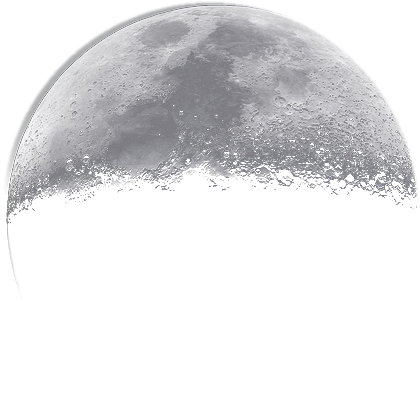
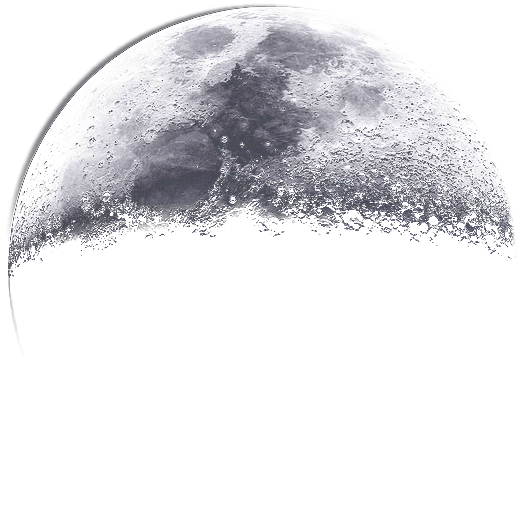
Stereo hummingbird wing hum; higher-contrast, better-blended moon
Claude-Session: https://claude.ai/code/session_01LigpvDkSJR84oMvpW1yewU

Changed region(s): [[0.0, 0.0, 0.9905, 0.5262]]

diff --git a/scenery.js b/scenery.js
@@ -91,6 +91,19 @@ var natureSfx=(function(){
     og.gain.setValueAtTime(0,at); og.gain.linearRampToValueAtTime(v*.45,at+.015); og.gain.linearRampToValueAtTime(0,at+.1); o.connect(og); og.connect(out); o.start(at); o.stop(at+.12); }
   function scratch(pan,v){ if(!ctx||!live) return; const at=ctx.currentTime+.01, out=voice(master,pan*.8), bp=ctx.createBiquadFilter(); bp.type="bandpass"; bp.frequency.value=R(1400,2200); bp.Q.value=1; bp.connect(out);
     const s=ctx.createBufferSource(); s.buffer=noiseBuf; const g=ctx.createGain(); g.gain.setValueAtTime(0,at); g.gain.linearRampToValueAtTime(v,at+.015); g.gain.linearRampToValueAtTime(0,at+.07); s.connect(g); g.connect(bp); s.start(at,R(0,2.5),.09); }
+  /* a hummingbird's wings: a soft, fast-throbbing hum, panned and swelling with how close it is, and a few high chips */
+  let humN=null;
+  function humSet(pan,vol){ if(!ctx||!live){ return; }
+    if(!humN&&vol>0){ const src=ctx.createBufferSource(); src.buffer=noiseBuf; src.loop=true; const bp=ctx.createBiquadFilter(); bp.type="bandpass"; bp.frequency.value=180; bp.Q.value=1.2;
+      const o=ctx.createOscillator(); o.type="triangle"; o.frequency.value=53; const og=ctx.createGain(); og.gain.value=.35;
+      const am=ctx.createGain(); am.gain.value=.5; const lfo=ctx.createOscillator(); lfo.frequency.value=53; const lg=ctx.createGain(); lg.gain.value=.5; lfo.connect(lg); lg.connect(am.gain);
+      const g=ctx.createGain(); g.gain.value=0; const p=ctx.createStereoPanner? ctx.createStereoPanner() : null;
+      src.connect(bp); bp.connect(am); o.connect(og); og.connect(am); am.connect(g); if(p){ g.connect(p); p.connect(master); } else g.connect(master);
+      src.start(); o.start(); lfo.start(); humN={src,o,lfo,g,p,bp}; }
+    if(!humN) return; const now=ctx.currentTime; humN.g.gain.setTargetAtTime(vol,now,.08); if(humN.p) humN.p.pan.setTargetAtTime(Math.max(-1,Math.min(1,pan)),now,.06);
+    humN.bp.frequency.setTargetAtTime(150+vol*400,now,.1);
+    if(vol<=0){ const n=humN; humN=null; n.g.gain.setTargetAtTime(0,now,.06); setTimeout(()=>{ try{ n.src.stop(); n.o.stop(); n.lfo.stop(); }catch(e){} },500); } }
+  function humChip(pan){ if(!ctx||!live) return; const out=voice(master,pan), at=ctx.currentTime+.02; for(let i=0;i<2+Math.floor(Math.random()*2);i++) tone(at+i*.09,R(5200,6000),R(4200,4800),.05,.03,out); }
   /* a single peck at the bark: a dry, hollow knock with a little woody thump under it */
   function peck(xf){ if(!ctx||!live) return; const at=ctx.currentTime+.01, out=voice(master,(xf||.2)*2-1), bp=ctx.createBiquadFilter(); bp.type="bandpass"; bp.frequency.value=R(1000,1500); bp.Q.value=4; bp.connect(out);
     const s=ctx.createBufferSource(); s.buffer=noiseBuf; const g=ctx.createGain(), v=R(.35,.5); g.gain.setValueAtTime(0,at); g.gain.linearRampToValueAtTime(v,at+.002); g.gain.exponentialRampToValueAtTime(.001,at+.05); s.connect(g); g.connect(bp); s.start(at,R(0,2.5),.07);
@@ -173,7 +186,7 @@ var natureSfx=(function(){
   document.addEventListener("visibilitychange",()=>{ if(ctx) apply(); });
   ["pointerdown","keydown","touchstart"].forEach(ev=>document.addEventListener(ev,e=>{ if(skip(e)) return; if(ctx&&wanted()&&ctx.state!=="running") ctx.resume().then(apply).catch(()=>{}); },true));
   setTimeout(()=>{ arm(); if(wanted()&&init()){ if(ctx.state==='running') apply(); else ctx.resume().then(()=>{ if(ctx.state==='running') apply(); }).catch(()=>{}); } },0);
-  return { get on(){ return on; }, get playing(){ return !!(on&&live&&ctx&&ctx.state==="running"); }, set(v){ on=!!v; if(on){ if(init()) apply(); else arm(); } else apply(); }, refresh(){ if(ctx) apply(); else if(wanted()) arm(); }, flush, honk, hawk(){ if(ctx&&live){ clearTimeout(hawkT); hawk(); } }, yip(){ if(ctx&&live){ clearTimeout(coyT); coyotes(); } }, drum, peck, paw, scratch, bluebird, setDusk(d){ dusk=d; } };
+  return { get on(){ return on; }, get playing(){ return !!(on&&live&&ctx&&ctx.state==="running"); }, set(v){ on=!!v; if(on){ if(init()) apply(); else arm(); } else apply(); }, refresh(){ if(ctx) apply(); else if(wanted()) arm(); }, flush, honk, hawk(){ if(ctx&&live){ clearTimeout(hawkT); hawk(); } }, yip(){ if(ctx&&live){ clearTimeout(coyT); coyotes(); } }, drum, peck, paw, scratch, humSet, humChip, bluebird, setDusk(d){ dusk=d; } };
 })();
 const ambient=(function(){
   const cv=document.createElement("canvas"); cv.id="ambient"; cv.setAttribute("aria-hidden","true"); document.body.prepend(cv);
@@ -391,13 +404,17 @@ const ambient=(function(){
     x.fillStyle="rgba(150,146,140,.28)"; for(const [a,b,r] of [[-.3,-.35,.22],[.1,-.1,.28],[.35,.25,.18],[-.2,.3,.16],[.42,-.36,.12],[-.48,.05,.1]]){ x.beginPath(); x.ellipse(o+a*R,o+b*R,r*R,r*R*.85,a,0,6.283); x.fill(); }   /* the maria */
     x.globalCompositeOperation="destination-out"; const sh=x.createRadialGradient(o-R*1.55,o,R*.4,o-R*1.55,o,R*1.25); sh.addColorStop(0,"rgba(0,0,0,.9)"); sh.addColorStop(.75,"rgba(0,0,0,.75)"); sh.addColorStop(1,"rgba(0,0,0,0)");   /* the unlit sliver on the side away from the sun */
     x.fillStyle=sh; x.fillRect(0,0,c.width,c.height); return c; })();
-  const moonImg=new Image(); moonImg.src=SC.sounds+"moon.png";   /* a real photograph of the moon */
+  const moonCv=document.createElement("canvas"); const moonImg=new Image(); moonImg.src=SC.sounds+"moon.png";   /* a real photograph of the moon */
   function drawMoon(){
     const p=[W*.15,Math.max(H*.15,scr(.15,.16)[1])], R=Math.min(W,H)*.08, d=Math.min(1,duskV/.62), a=.55+.4*d;
     const veil=.25+.35*Math.max(0,Math.sin(t*.045+1)*.5+Math.sin(t*.11)*.5);                                           /* thin cloud drifting across it */
     ctx.save(); ctx.globalAlpha=a*(1-veil*.55);
-    const gl=ctx.createRadialGradient(p[0],p[1],R*.8,p[0],p[1],R*4); gl.addColorStop(0,`rgba(255,246,226,${(.22*a).toFixed(3)})`); gl.addColorStop(1,"rgba(255,246,226,0)"); ctx.fillStyle=gl; ctx.fillRect(p[0]-R*4,p[1]-R*4,R*8,R*8);   /* glow in the haze */
-    ctx.globalCompositeOperation="screen"; if(moonImg.complete&&moonImg.naturalWidth){ ctx.globalAlpha=Math.min(1,a*1.25*(1-veil*.35)); ctx.translate(p[0],p[1]); ctx.rotate(110*Math.PI/180); ctx.drawImage(moonImg,-R,-R,R*2,R*2); ctx.globalAlpha*=.6; ctx.drawImage(moonImg,-R,-R,R*2,R*2); ctx.setTransform(camZ,0,0,camZ,(1-camZ)*W/2+camX,(1-camZ)*H/2+camY); } else ctx.drawImage(moonSpr,p[0]-R-R*4/64,p[1]-R-R*4/64,R*2+R*8/64,R*2+R*8/64);   /* screened, so its dark half melts into the sky and only the lit part shows */
+    const gl=ctx.createRadialGradient(p[0],p[1],R*.6,p[0],p[1],R*2.6); gl.addColorStop(0,`rgba(255,246,226,${(.12*a).toFixed(3)})`); gl.addColorStop(1,"rgba(255,246,226,0)"); ctx.fillStyle=gl; ctx.fillRect(p[0]-R*4,p[1]-R*4,R*8,R*8);   /* glow in the haze */
+    ctx.globalCompositeOperation="screen"; if(moonImg.complete&&moonImg.naturalWidth){ ctx.globalAlpha=Math.min(1,(.8+.2*d)*(1-veil*.45)); ctx.translate(p[0],p[1]); ctx.rotate(110*Math.PI/180);
+      const ip0=toImg(p[0],p[1]), sk=(ip0&&sampleAt(Math.max(0,Math.min(1,ip0[0])),Math.max(0,Math.min(1,ip0[1]))))||[200,180,160], S2=Math.ceil(R*2);
+      if(moonCv.width!==S2){ moonCv.width=moonCv.height=S2; } const mx=moonCv.getContext("2d"); mx.globalCompositeOperation="source-over"; mx.clearRect(0,0,S2,S2); mx.drawImage(moonImg,0,0,S2,S2);
+      mx.globalCompositeOperation="source-atop"; mx.fillStyle=rgb(mixv([255,236,214],sk,.4),.32); mx.fillRect(0,0,S2,S2);   /* tinted by the evening air it's seen through, only where the moon is lit */
+      ctx.globalCompositeOperation="source-over"; ctx.filter="blur(.5px)"; ctx.drawImage(moonCv,-R,-R,R*2,R*2); ctx.filter="none";   /* laid over the sky, so its dark seas and bright craters keep their contrast */ ctx.setTransform(camZ,0,0,camZ,(1-camZ)*W/2+camX,(1-camZ)*H/2+camY); } else ctx.drawImage(moonSpr,p[0]-R-R*4/64,p[1]-R-R*4/64,R*2+R*8/64,R*2+R*8/64);   /* screened, so its dark half melts into the sky and only the lit part shows */
     ctx.restore();
     if(skyTile){ const ip=toImg(p[0],p[1]); const c=(ip&&sampleAt(Math.max(0,Math.min(1,ip[0])),Math.max(0,Math.min(1,ip[1]))))||[120,110,110];
       const v=ctx.createRadialGradient(p[0]+Math.sin(t*.07)*R,p[1],0,p[0],p[1],R*2.2); v.addColorStop(0,rgb(c,.4*veil)); v.addColorStop(1,rgb(c,0)); ctx.fillStyle=v; ctx.fillRect(p[0]-R*2.5,p[1]-R*2.5,R*5,R*5); }   /* the veil itself */
@@ -2328,7 +2345,8 @@ const ambient=(function(){
     let z, sx, sy, look=0;
     if(T<1.3){ const u=T/1.3, e=u*u*(3-2*u); z=9*Math.pow(zH/9,e); const ev=(1/9-1/z)/(1/9-1/zH); sx=lerp(h.fx,h.hx,ev); sy=lerp(h.fy,h.hy,ev)-Math.sin(ev*Math.PI)*30; }   /* shooting in toward you */
     else if(T<4.6){ z=zH+Math.sin(T*1.7)*.05; sx=h.hx+Math.sin(T*2.6)*16+Math.sin(T*9)*3; sy=h.hy+Math.sin(T*2.1)*9+Math.cos(T*11)*2; look=Math.sin(T*1.9)*.7; }   /* hovering, darting a little, turning its head to you */
-    else { const u=Math.min(1,(T-4.6)/.8), e=u*u; z=zH*Math.pow(10/zH,e); const ev=(1/zH-1/z)/(1/zH-1/10); sx=lerp(h.hx,h.ex,ev); sy=lerp(h.hy,h.ey,ev); if(u>=1){ hum=null; nextHum=rnd(90,170); return; } }
+    else { const u=Math.min(1,(T-4.6)/.8), e=u*u; z=zH*Math.pow(10/zH,e); const ev=(1/zH-1/z)/(1/zH-1/10); sx=lerp(h.hx,h.ex,ev); sy=lerp(h.hy,h.ey,ev); if(u>=1){ hum=null; nextHum=rnd(90,170); natureSfx.humSet&&natureSfx.humSet(0,0); return; } }
+    { const pan=(sx/W*2-1)*.95, vol=Math.min(.14,.03/z); natureSfx.humSet&&natureSfx.humSet(pan,vol); h.chT=(h.chT||rnd(.8,2))-dt; if(h.chT<=0){ h.chT=rnd(1.2,2.6); natureSfx.humChip&&natureSfx.humChip(pan); } }   /* heard where it is, louder up close */
     const P=[(sx-cx)*z/F,(sy-cy)*z/F,z], V=h.pp? [P[0]-h.pp[0],P[1]-h.pp[1],P[2]-h.pp[2]] : [0,0,-1]; h.pp=P; h.sx=sx; h.sy=sy;
     if(Math.hypot(...V)>1e-7) h.V=h.V? h.V.map((v,i)=>lerp(v,V[i],.2)) : V;
     let fdir=h.V||V; const hov=T>=1.3&&T<4.6; if(hov) fdir=[Math.sin(look)*.6,0,-1];                           /* hovering: it faces you */
